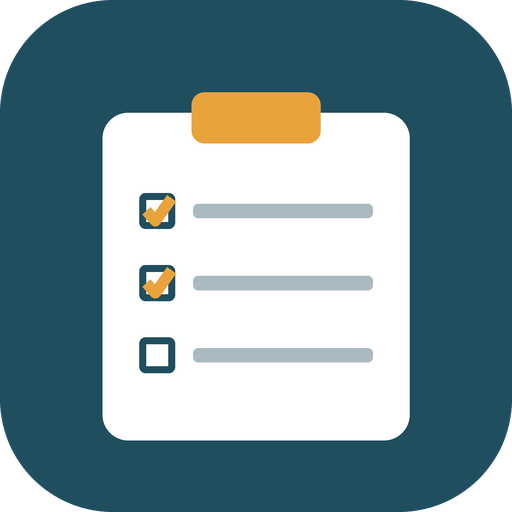
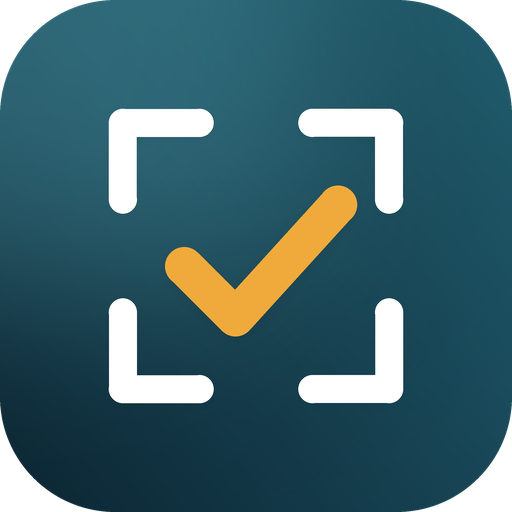
アプリアイコンをファインダー＋チェックのデザインに変更
Claude-Session: https://claude.ai/code/session_01E5dCGhB9p8jBXiwrPbqXWe

diff --git a/index.html b/index.html
@@ -9,8 +9,8 @@
 <meta name="apple-mobile-web-app-status-bar-style" content="black-translucent">
 <meta name="apple-mobile-web-app-title" content="点検レポート">
 <link rel="manifest" href="manifest.webmanifest">
-<link rel="icon" type="image/png" sizes="192x192" href="icon-192.png">
-<link rel="apple-touch-icon" href="apple-touch-icon.png">
+<link rel="icon" type="image/png" sizes="192x192" href="icon-192.png?v=2">
+<link rel="apple-touch-icon" href="apple-touch-icon.png?v=2">
 <title>現場点検レポート</title>
 <meta name="claude:viewport-fit-sides" content="cover">
 <link rel="stylesheet" href="https://fonts.googleapis.com/css2?family=BIZ+UDPGothic:wght@400;700&family=Zen+Kaku+Gothic+New:wght@500;700;900&display=swap">

diff --git a/sw.js b/sw.js
@@ -1,4 +1,4 @@
-const VERSION = "v5";
+const VERSION = "v6";
 const CACHE = "inspect-" + VERSION;
 const CORE = ["./", "./index.html", "./manifest.webmanifest", "./icon-192.png", "./icon-512.png", "./apple-touch-icon.png",
   "https://cdnjs.cloudflare.com/ajax/libs/jspdf/2.5.1/jspdf.umd.min.js"];
